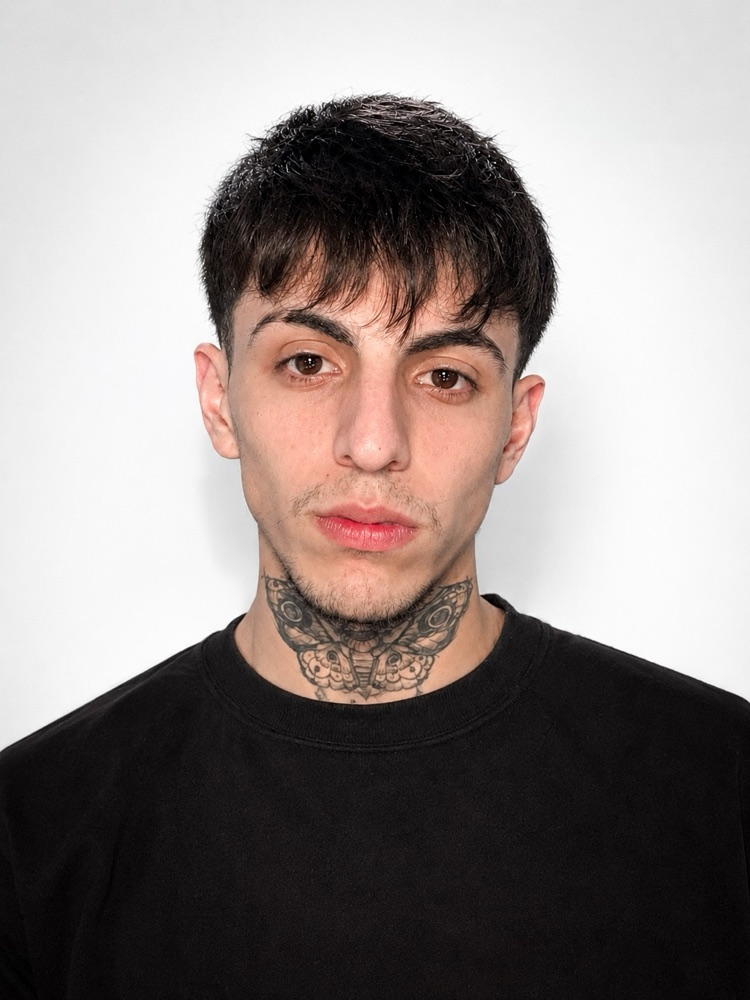
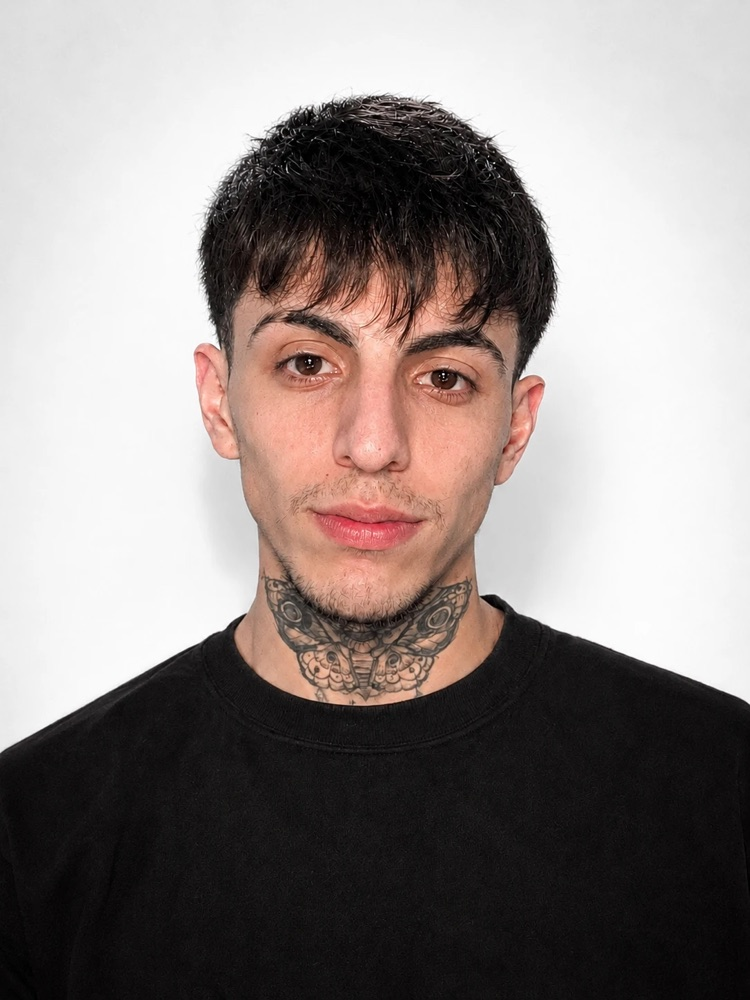
Nueva tipografia de titulos y foto nueva

diff --git a/index.html b/index.html
@@ -15,16 +15,16 @@
 <meta property="og:url" content="https://vidrierasweb.github.io/Vidrieras-Web/"><meta property="og:image" content="https://vidrierasweb.github.io/Vidrieras-Web/og-image.png"><meta property="og:image:width" content="1200"><meta property="og:image:height" content="630">
 <meta name="twitter:card" content="summary_large_image">
 <link rel="preconnect" href="https://fonts.googleapis.com"><link rel="preconnect" href="https://fonts.gstatic.com" crossorigin>
-<link href="https://fonts.googleapis.com/css2?family=Bricolage+Grotesque:opsz,wdth,wght@12..96,75..100,600..800&family=Figtree:wght@400;500;600;700&display=swap" rel="stylesheet">
+<link href="https://fonts.googleapis.com/css2?family=Outfit:wght@600;700;800&family=Figtree:wght@400;500;600;700&display=swap" rel="stylesheet">
 <style>
 /* Paleta fría: negro, azul, verde, gris y blanco puro. Sin beige ni cálidos. */
-:root{--bg:#0B0B0D;--bg2:#15181F;--text:#fff;--text2:rgba(255,255,255,.82);--edge:rgba(255,255,255,.24);--frame:#fff;--card:#fff;--ink:#0B0B0D;--muted:#4B5565;--line:rgba(11,11,13,.16);--awning:#2F6BFF;--stripe:#fff;--sign:#2F6BFF;--sign-ink:#fff;--sign-dark:#1B45B5;--pop:#7FA6FF;--cbtn:#1F57F0;--shadow:rgba(47,107,255,.5);--cta-bg:#2F6BFF;--cta-ink:#fff;--cta-btn:#fff;--cta-btn-ink:#0B0B0D;--max:1140px;--display:"Bricolage Grotesque",system-ui,sans-serif;--body:Figtree,system-ui,sans-serif}
+:root{--bg:#0B0B0D;--bg2:#15181F;--text:#fff;--text2:rgba(255,255,255,.82);--edge:rgba(255,255,255,.24);--frame:#fff;--card:#fff;--ink:#0B0B0D;--muted:#4B5565;--line:rgba(11,11,13,.16);--awning:#2F6BFF;--stripe:#fff;--sign:#2F6BFF;--sign-ink:#fff;--sign-dark:#1B45B5;--pop:#7FA6FF;--cbtn:#1F57F0;--shadow:rgba(47,107,255,.5);--cta-bg:#2F6BFF;--cta-ink:#fff;--cta-btn:#fff;--cta-btn-ink:#0B0B0D;--max:1140px;--display:"Outfit",system-ui,sans-serif;--body:Figtree,system-ui,sans-serif}
 *{box-sizing:border-box}
 html{scroll-behavior:smooth;scroll-padding-top:84px;-webkit-text-size-adjust:100%}
 body{margin:0;background:var(--bg);color:var(--text);font:400 17px/1.6 var(--body);-webkit-font-smoothing:antialiased}
 img{max-width:100%;height:auto}
 a{color:inherit}
-h1,h2,h3{font-family:var(--display);font-stretch:85%;font-weight:800;line-height:1.02;letter-spacing:-.015em;margin:0}
+h1,h2,h3{font-family:var(--display);font-weight:800;line-height:1.1;letter-spacing:-.015em;margin:0}
 p{margin:0}
 :focus-visible{outline:3px solid var(--sign);outline-offset:3px;border-radius:4px}
 .wrap{width:min(var(--max),calc(100% - 40px));margin:auto}
@@ -42,7 +42,7 @@ section{padding:clamp(56px,8vw,100px) 0}
 .offer{background:var(--sign);color:var(--sign-ink);text-align:center;font-weight:700;font-size:14px;line-height:1.35;padding:9px 16px}
 header{position:sticky;top:0;z-index:20;background:var(--bg);border-bottom:2px solid var(--edge)}
 .nav{height:68px;display:flex;align-items:center;justify-content:space-between;gap:20px}
-.brand{display:flex;align-items:center;gap:10px;text-decoration:none;font:800 21px/1 var(--display);font-stretch:85%;letter-spacing:-.01em}
+.brand{display:flex;align-items:center;gap:10px;text-decoration:none;font:800 21px/1 var(--display);letter-spacing:-.01em}
 .brand img{width:34px;height:34px;object-fit:contain}
 .brand span{font-weight:600}
 .links{display:flex;align-items:center;gap:26px}
@@ -57,7 +57,8 @@ header{position:sticky;top:0;z-index:20;background:var(--bg);border-bottom:2px s
 /* Inicio */
 .hero{padding-top:clamp(56px,7vw,90px)}
 .hero-grid{display:grid;grid-template-columns:1.02fr .98fr;gap:clamp(32px,5vw,64px);align-items:center}
-h1{font-size:clamp(46px,6.6vw,86px)}
+h1{font-size:clamp(38px,5.3vw,66px);line-height:1.06}
+h1,h2{text-wrap:balance}
 .lead{font-size:clamp(18px,1.6vw,20px);max-width:34em;margin-top:22px;color:var(--text2)}
 .actions{display:flex;flex-wrap:wrap;gap:14px;margin-top:30px}
 .checks{list-style:none;display:flex;flex-wrap:wrap;gap:8px 22px;margin:30px 0 0;padding:0;font-weight:600;font-size:15.5px}
@@ -72,11 +73,11 @@ h1{font-size:clamp(46px,6.6vw,86px)}
 .shot img{display:block;width:100%;aspect-ratio:760/330;object-fit:cover;object-position:top}
 .shot span{display:block;padding:7px 11px;font-weight:700;font-size:13.5px;background:#fff;border-top:2px solid #0B0B0D}
 .shot.big{grid-column:1/-1}
-.hang{position:absolute;z-index:3;right:-12px;top:-30px;transform:rotate(5deg);background:var(--sign);color:var(--sign-ink);border:2px solid var(--frame);border-radius:12px;padding:9px 15px;font:800 17px/1 var(--display);font-stretch:85%;box-shadow:3px 3px 0 var(--shadow)}
+.hang{position:absolute;z-index:3;right:-12px;top:-30px;transform:rotate(5deg);background:var(--sign);color:var(--sign-ink);border:2px solid var(--frame);border-radius:12px;padding:9px 15px;font:800 17px/1 var(--display);box-shadow:3px 3px 0 var(--shadow)}
 
 /* Títulos de sección */
 .head{display:grid;grid-template-columns:1.2fr .8fr;gap:30px;align-items:end;margin-bottom:40px}
-.head h2{font-size:clamp(36px,4.8vw,58px)}
+.head h2{font-size:clamp(29px,3.7vw,44px)}
 .head p{color:var(--text2);max-width:30em}
 
 /* Demos */
@@ -85,7 +86,7 @@ h1{font-size:clamp(46px,6.6vw,86px)}
 .demo:hover{transform:translate(-2px,-2px);box-shadow:8px 8px 0 var(--shadow)}
 .demo img{display:block;width:100%;aspect-ratio:760/330;object-fit:cover;object-position:top;border-bottom:2px solid #0B0B0D}
 .demo div{padding:22px 24px 26px}
-.demo h3{font-size:28px}
+.demo h3{font-size:24px}
 .demo p{color:var(--muted);margin-top:8px;font-size:16px}
 .demo a{display:inline-block;margin-top:14px;font-weight:700;text-underline-offset:5px;text-decoration-thickness:2px}
 .note{margin-top:22px;font-size:14px;color:var(--text2)}
@@ -93,8 +94,8 @@ h1{font-size:clamp(46px,6.6vw,86px)}
 /* Caso real */
 .case{display:grid;grid-template-columns:1.05fr .95fr;gap:clamp(28px,5vw,60px);align-items:center;margin-top:clamp(56px,8vw,96px)}
 .case img{display:block;width:100%;border:2px solid var(--frame);border-radius:18px;box-shadow:8px 8px 0 var(--sign)}
-.case h2{font-size:clamp(34px,4.4vw,52px);margin-bottom:22px}
-.case h3{font-size:19px;margin:20px 0 4px;font-stretch:100%;font-weight:700;letter-spacing:0}
+.case h2{font-size:clamp(28px,3.5vw,40px);margin-bottom:22px}
+.case h3{font-size:19px;margin:20px 0 4px;font-weight:700;letter-spacing:0}
 .case p{color:var(--text2);font-size:16.5px}
 .case .btn{margin-top:26px}
 .kicker{display:inline-block;background:var(--sign);color:var(--sign-ink);font-weight:700;font-size:14px;border-radius:99px;padding:6px 14px;margin-bottom:16px}
@@ -107,11 +108,11 @@ h1{font-size:clamp(46px,6.6vw,86px)}
 .tag:before{content:"";position:absolute;top:15px;left:50%;width:16px;height:16px;margin-left:-8px;border-radius:50%;background:var(--bg2);border:2px solid #0B0B0D}
 .tag:after{content:"";position:absolute;left:50%;top:-44px;width:2px;height:60px;background:var(--frame);transform:rotate(-7deg);transform-origin:50% 100%}
 .tag.main{background:var(--sign);color:var(--sign-ink)}
-.tag h3{font-size:32px}
+.tag h3{font-size:27px}
 .when{font-size:14.5px;font-weight:600;margin-top:4px}
 .old{margin-top:18px;color:var(--muted);text-decoration:line-through;text-decoration-thickness:2px;font-weight:600}
 .tag.main .old{color:inherit;opacity:.85}
-.price{font:800 clamp(42px,4.6vw,56px)/1 var(--display);font-stretch:85%;letter-spacing:-.02em;margin:2px 0 18px}
+.price{font:800 clamp(36px,4vw,48px)/1 var(--display);letter-spacing:-.02em;margin:2px 0 18px}
 .tag ul{list-style:none;margin:0 0 20px;padding:0;font-size:16px;display:grid;gap:8px}
 .tag li{padding-left:26px;position:relative}
 .tag li:before{content:"✓";position:absolute;left:0;font-weight:800;color:var(--cbtn)}
@@ -125,14 +126,14 @@ h1{font-size:clamp(46px,6.6vw,86px)}
 .fine{margin-top:34px;font-size:14.5px;color:var(--text2);max-width:60em}
 .duo{display:grid;grid-template-columns:1fr 1fr;gap:24px;margin-top:48px}
 .panel{background:#fff;color:var(--ink);border:2px solid var(--frame);border-radius:18px;padding:28px;box-shadow:6px 6px 0 var(--shadow)}
-.panel h3{font-size:28px;margin-bottom:6px}
+.panel h3{font-size:23px;margin-bottom:6px}
 .panel>p{color:var(--muted);font-size:16px;margin-bottom:10px}
 .row{display:flex;justify-content:space-between;align-items:baseline;gap:18px;padding:13px 0;border-top:1px solid var(--line);font-size:16px}
-.row strong{white-space:nowrap;font-family:var(--display);font-stretch:85%;font-size:20px}
+.row strong{white-space:nowrap;font-family:var(--display);font-size:18px}
 .panel small{display:block;margin-top:10px;font-size:13.5px;color:var(--muted)}
 .pay{display:grid;grid-template-columns:auto auto 1fr auto;gap:clamp(18px,3vw,40px);align-items:center;margin-top:24px;background:var(--sign);color:var(--sign-ink);border-radius:18px;padding:clamp(24px,4vw,38px);box-shadow:6px 6px 0 var(--shadow)}
 .pay .half{display:flex;align-items:center;gap:14px}
-.pay .half b{font:800 clamp(44px,5vw,62px)/1 var(--display);font-stretch:85%;color:inherit}
+.pay .half b{font:800 clamp(34px,4vw,50px)/1 var(--display);color:inherit}
 .pay .half span{font-weight:700;line-height:1.25;max-width:9em}
 .pay p{font-size:16px}
 .pay .btn{background:#0B0B0D;color:#fff;border-color:#0B0B0D;box-shadow:0 4px 0 #000}
@@ -140,8 +141,8 @@ h1{font-size:clamp(46px,6.6vw,86px)}
 /* Cómo trabajo */
 .steps{list-style:none;margin:0;padding:0;display:grid;grid-template-columns:repeat(4,1fr);gap:26px}
 .steps li{border-top:3px solid var(--frame);padding-top:16px}
-.steps b{display:block;font:800 52px/1 var(--display);font-stretch:85%;color:var(--pop)}
-.steps h3{font-size:24px;margin:10px 0 6px}
+.steps b{display:block;font:800 44px/1 var(--display);color:var(--pop)}
+.steps h3{font-size:21px;margin:10px 0 6px}
 .steps p{color:var(--text2);font-size:16px}
 
 /* Quién soy */
@@ -150,7 +151,7 @@ h1{font-size:clamp(46px,6.6vw,86px)}
 .polaroid{background:#fff;padding:12px 12px 14px;border:2px solid #0B0B0D;box-shadow:5px 5px 0 rgba(0,0,0,.22);transform:rotate(-2deg)}
 .polaroid img{display:block;width:100%;aspect-ratio:3/4;object-fit:cover;object-position:50% 18%}
 .polaroid figcaption{font:700 15px var(--body);text-align:center;padding-top:10px}
-.about h2{font-size:clamp(34px,4.4vw,52px);margin-bottom:16px}
+.about h2{font-size:clamp(28px,3.5vw,40px);margin-bottom:16px}
 .about p{font-size:18px;max-width:34em;color:#1f2430}
 .about .checks{margin-top:22px}
 .about .checks li:before{color:var(--cbtn)}
@@ -158,7 +159,7 @@ h1{font-size:clamp(46px,6.6vw,86px)}
 /* Preguntas */
 .faq{border-top:2px solid var(--edge)}
 .faq details{border-bottom:2px solid var(--edge)}
-.faq summary{list-style:none;cursor:pointer;position:relative;padding:22px 48px 22px 0;font:700 20px/1.3 var(--display);font-stretch:90%}
+.faq summary{list-style:none;cursor:pointer;position:relative;padding:22px 48px 22px 0;font:700 20px/1.3 var(--display);}
 .faq summary::-webkit-details-marker{display:none}
 .faq summary:after{content:"+";position:absolute;right:6px;top:50%;transform:translateY(-50%);font:700 30px/1 var(--body);color:var(--pop)}
 .faq details[open] summary:after{content:"–"}
@@ -167,7 +168,7 @@ h1{font-size:clamp(46px,6.6vw,86px)}
 /* Contacto */
 .cta{position:relative;overflow:hidden;background:var(--cta-bg);color:var(--cta-ink);border:2px solid var(--frame);border-radius:26px;padding:clamp(54px,7vw,92px) clamp(26px,6vw,72px) clamp(34px,6vw,72px);box-shadow:8px 8px 0 var(--shadow)}
 .cta:before{content:"";position:absolute;left:0;right:0;top:0;height:18px;background:repeating-linear-gradient(90deg,#fff 0 36px,transparent 36px 72px)}
-.cta h2{font-size:clamp(40px,6vw,76px);max-width:11em}
+.cta h2{font-size:clamp(31px,4.6vw,58px);max-width:13em}
 .cta p{margin-top:18px;font-size:18px;max-width:30em}
 .cta .btn{background:var(--cta-btn);color:var(--cta-btn-ink);border-color:#0B0B0D;box-shadow:0 4px 0 #0B0B0D}
 footer{padding:34px 0 46px}
@@ -182,15 +183,15 @@ footer{padding:34px 0 46px}
 .offer b{font-weight:800}
 .burst{position:absolute;z-index:4;right:-24px;bottom:-62px;width:112px;height:112px;border-radius:50%;background:var(--sign);color:var(--sign-ink);border:3px solid #fff;display:flex;flex-direction:column;align-items:center;justify-content:center;text-align:center;transform:rotate(8deg);box-shadow:5px 5px 0 var(--shadow);line-height:1.05}
 .burst small{font:700 11px/1.1 var(--body);max-width:78px}
-.burst b{font:800 26px/1 var(--display);font-stretch:85%;letter-spacing:-.01em;margin:3px 0}
-.save{position:absolute;z-index:2;top:-18px;right:-14px;transform:rotate(6deg);background:var(--sign);color:var(--sign-ink);border:3px solid #fff;border-radius:12px;padding:7px 12px;font:800 16px/1 var(--display);font-stretch:85%;box-shadow:3px 3px 0 var(--shadow)}
+.burst b{font:800 22px/1 var(--display);letter-spacing:-.01em;margin:3px 0}
+.save{position:absolute;z-index:2;top:-18px;right:-14px;transform:rotate(6deg);background:var(--sign);color:var(--sign-ink);border:3px solid #fff;border-radius:12px;padding:7px 12px;font:800 16px/1 var(--display);box-shadow:3px 3px 0 var(--shadow)}
 .tag.main .save{background:#fff;color:var(--cbtn);border-color:var(--cbtn)}
 .chip{align-self:flex-start;border:2px solid currentColor;border-radius:99px;padding:5px 12px;font:700 13px/1 var(--body);margin-bottom:12px}
 .tag .chip{color:var(--cbtn)}.tag.main .chip{color:inherit}
 .old{font-size:17px}
-.price{font-size:clamp(48px,5.4vw,64px)}
-.tag:nth-child(3) .price{font-size:clamp(38px,4.2vw,50px)}
-@media(max-width:700px){.burst{right:-6px;bottom:-56px;width:104px;height:104px}.burst b{font-size:24px}.save{right:-6px}}
+.price{font-size:clamp(38px,4.2vw,50px)}
+.tag:nth-child(3) .price{font-size:clamp(30px,3.3vw,38px)}
+@media(max-width:700px){.burst{right:-6px;bottom:-56px;width:104px;height:104px}.burst b{font-size:21px}.save{right:-6px}}
 
 /* Tablet y celular */
 @media(max-width:980px){
